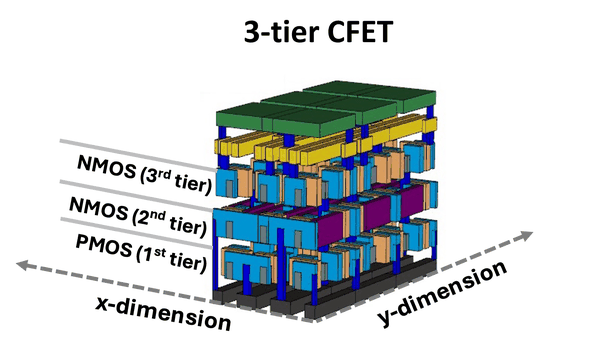
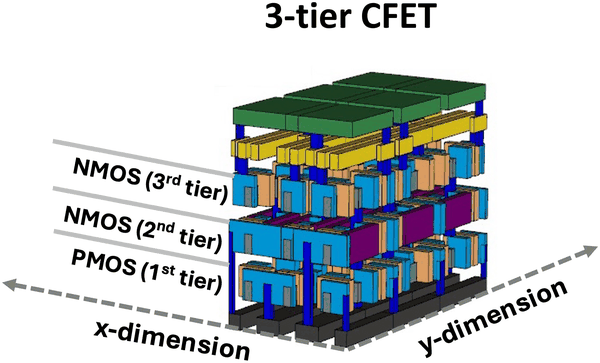
v2: PDK comparison becomes a real HTML table; tighter crops on L3 and F3
The benchmark figure was a 1168px screenshot shown at about 1032px, so
roughly 1x and soft on the small table text. It is now a real table:
sharp at any zoom, selectable, screen-reader navigable with row and
column headers, horizontally scrollable on a phone with the row labels
pinned, and about 2 KB of markup instead of a 24 KB image.

Device and Integration are marked as the rows that carry the argument,
and the MATRIX-A5 column is tinted gold. Ticks and crosses carry
aria-labels rather than relying on the glyph alone.

pub-L3 and pub-F3 are re-rendered with the white margin trimmed: 24% and
13% of their area respectively, so the artwork fills the thumbnail.

diff --git a/v2/index.html b/v2/index.html
@@ -241,9 +241,123 @@
 
     </div>
 
-    <figure class="figure-wide" style="margin-top:26px">
-      <img src="assets/figures/pdk-benchmark.png" width="1168" height="568" loading="lazy"
-           alt="Comparison table of open process design kits. ASAP7 from ASU at 7 nm FinFET, ASAP5 from ASU at 5 nm nanowire FET, FreePDK3 from NCSU at 3 nm gate-all-around nanosheet, GT3 from Georgia Tech at 3 nm, and USC 3N-2D at 3 nm are all 2D integration. MATRIX-A5 from Georgia Tech is A5 node, CFET, 3D stacked device, and is the only entry combining a standard-cell library, multi-threshold-voltage flavors, temperature corners, an RTL-to-GDS flow and backside power delivery">
+    <figure class="figure-wide table-figure">
+      <div class="table-scroll">
+        <table class="pdk-table">
+          <caption class="sr-only">
+            Open process design kits compared by institution, node, device, integration,
+            standard-cell library, multi-threshold-voltage flavors, temperature corners,
+            RTL-to-GDS flow, backside power delivery and availability.
+          </caption>
+          <thead>
+            <tr>
+              <th scope="col"><span class="sr-only">Capability</span></th>
+              <th scope="col">ASAP7</th>
+              <th scope="col">ASAP5</th>
+              <th scope="col">FreePDK3</th>
+              <th scope="col">GT3</th>
+              <th scope="col">USC 3N-2D</th>
+              <th scope="col" class="ours">MATRIX-A5<span class="sub">(this work)</span></th>
+            </tr>
+          </thead>
+          <tbody>
+            <tr>
+              <th scope="row">Institution</th>
+              <td>ASU</td>
+              <td>ASU</td>
+              <td>NCSU</td>
+              <td>Georgia Tech</td>
+              <td>USC (SCCAD)</td>
+              <td class="ours">Georgia Tech</td>
+            </tr>
+            <tr>
+              <th scope="row">Node</th>
+              <td>7 nm</td>
+              <td>5 nm</td>
+              <td>3 nm</td>
+              <td>3 nm</td>
+              <td>3 nm</td>
+              <td class="ours">A5</td>
+            </tr>
+            <tr class="key">
+              <th scope="row">Device</th>
+              <td>FinFET</td>
+              <td>NWFET</td>
+              <td>GAA NS</td>
+              <td>GAA NS</td>
+              <td>GAA NS</td>
+              <td class="ours">CFET</td>
+            </tr>
+            <tr class="key">
+              <th scope="row">Integration</th>
+              <td>2D</td>
+              <td>2D</td>
+              <td>2D</td>
+              <td>2D</td>
+              <td>2D</td>
+              <td class="ours">3D stacked device</td>
+            </tr>
+            <tr>
+              <th scope="row">Standard-cell library</th>
+              <td><span class="mark yes" role="img" aria-label="supported">&#10003;</span></td>
+              <td><span class="mark yes" role="img" aria-label="supported">&#10003;</span></td>
+              <td><span class="mark no" role="img" aria-label="not supported">&#10007;</span></td>
+              <td><span class="mark yes" role="img" aria-label="supported">&#10003;</span></td>
+              <td><span class="mark yes" role="img" aria-label="supported">&#10003;</span></td>
+              <td class="ours"><span class="mark yes" role="img" aria-label="supported">&#10003;</span></td>
+            </tr>
+            <tr>
+              <th scope="row">Multi-V<sub>th</sub> flavors</th>
+              <td><span class="mark yes" role="img" aria-label="supported">&#10003;</span></td>
+              <td><span class="mark no" role="img" aria-label="not supported">&#10007;</span></td>
+              <td><span class="mark no" role="img" aria-label="not supported">&#10007;</span></td>
+              <td><span class="mark no" role="img" aria-label="not supported">&#10007;</span></td>
+              <td><span class="mark no" role="img" aria-label="not supported">&#10007;</span></td>
+              <td class="ours"><span class="mark yes" role="img" aria-label="supported">&#10003;</span></td>
+            </tr>
+            <tr>
+              <th scope="row">Temperature corners</th>
+              <td><span class="mark yes" role="img" aria-label="supported">&#10003;</span></td>
+              <td><span class="mark no" role="img" aria-label="not supported">&#10007;</span></td>
+              <td><span class="mark no" role="img" aria-label="not supported">&#10007;</span></td>
+              <td><span class="mark no" role="img" aria-label="not supported">&#10007;</span></td>
+              <td><span class="mark no" role="img" aria-label="not supported">&#10007;</span></td>
+              <td class="ours"><span class="mark yes" role="img" aria-label="supported">&#10003;</span></td>
+            </tr>
+            <tr>
+              <th scope="row">RTL-to-GDS flow</th>
+              <td><span class="mark yes" role="img" aria-label="supported">&#10003;</span></td>
+              <td><span class="mark yes" role="img" aria-label="supported">&#10003;</span></td>
+              <td><span class="mark yes" role="img" aria-label="supported">&#10003;</span></td>
+              <td><span class="mark yes" role="img" aria-label="supported">&#10003;</span></td>
+              <td><span class="mark yes" role="img" aria-label="supported">&#10003;</span></td>
+              <td class="ours"><span class="mark yes" role="img" aria-label="supported">&#10003;</span></td>
+            </tr>
+            <tr>
+              <th scope="row">Backside power (BSPDN)</th>
+              <td><span class="mark no" role="img" aria-label="not supported">&#10007;</span></td>
+              <td><span class="mark no" role="img" aria-label="not supported">&#10007;</span></td>
+              <td><span class="mark no" role="img" aria-label="not supported">&#10007;</span></td>
+              <td><span class="mark yes" role="img" aria-label="supported">&#10003;</span></td>
+              <td><span class="mark yes" role="img" aria-label="supported">&#10003;</span></td>
+              <td class="ours"><span class="mark yes" role="img" aria-label="supported">&#10003;</span></td>
+            </tr>
+            <tr>
+              <th scope="row">Availability</th>
+              <td>open</td>
+              <td>open</td>
+              <td>open</td>
+              <td>open</td>
+              <td>open</td>
+              <td class="ours">will be open</td>
+            </tr>
+          </tbody>
+        </table>
+      </div>
+      <div class="table-legend">
+        <span><span class="mark yes" aria-hidden="true">&#10003;</span> supported</span>
+        <span><span class="mark no" aria-hidden="true">&#10007;</span> not supported</span>
+      </div>
       <figcaption>
         Where MATRIX-A5 sits among open research PDKs. The others are 2D integration on FinFET,
         nanowire or gate-all-around nanosheet devices; MATRIX-A5 is the only CFET-based, 3D

diff --git a/v2/assets/style.css b/v2/assets/style.css
@@ -466,3 +466,57 @@ section + section { border-top: 1px solid var(--line-soft); }
   border: 1px solid var(--line); border-radius: var(--radius);
   background: var(--surface-alt); box-shadow: var(--shadow-sm);
 }
+
+/* ---------- PDK comparison table ---------- */
+
+.table-figure { margin: 26px 0 0; }
+.table-scroll {
+  overflow-x: auto; border: 1px solid var(--line); border-radius: var(--radius);
+  background: var(--surface); box-shadow: var(--shadow-sm);
+  -webkit-overflow-scrolling: touch;
+}
+.pdk-table { border-collapse: collapse; width: 100%; min-width: 760px; font-size: .84rem; }
+
+.pdk-table thead th {
+  background: var(--navy); color: #fff; font-family: var(--sans); font-weight: 650;
+  text-align: center; padding: 11px 12px; white-space: nowrap; font-size: .86rem;
+  border-bottom: 2px solid var(--gold);
+}
+.pdk-table thead th:first-child { background: var(--navy); text-align: left; }
+.pdk-table thead th .sub { display: block; font-weight: 500; font-size: .68rem; opacity: .85; }
+
+.pdk-table th[scope="row"] {
+  text-align: left; font-weight: 500; color: var(--copy); padding: 9px 14px;
+  white-space: nowrap; position: sticky; left: 0; background: var(--surface);
+  border-right: 1px solid var(--line);
+}
+.pdk-table td { text-align: center; padding: 9px 12px; color: var(--muted); }
+.pdk-table tbody tr { border-top: 1px solid var(--line-soft); }
+.pdk-table tbody tr:nth-child(odd) th[scope="row"],
+.pdk-table tbody tr:nth-child(odd) td { background: var(--surface-alt); }
+
+/* the two rows that carry the argument */
+.pdk-table tr.key th[scope="row"] { font-weight: 650; color: var(--ink); box-shadow: inset 3px 0 0 var(--gold); }
+.pdk-table tr.key td { color: var(--ink); font-weight: 550; }
+
+/* the column for this work */
+.pdk-table .ours { background: color-mix(in srgb, var(--gold) 16%, transparent) !important; font-weight: 600; color: var(--ink); }
+.pdk-table thead .ours { background: var(--navy) !important; color: var(--gold); box-shadow: inset 0 0 0 1px var(--gold); }
+
+.mark {
+  display: inline-grid; place-items: center; width: 19px; height: 19px; border-radius: 50%;
+  font-size: .7rem; line-height: 1; font-weight: 700;
+}
+.mark.yes { background: color-mix(in srgb, var(--gold) 28%, transparent); color: var(--ink); border: 1px solid var(--gold); }
+.mark.no  { background: var(--line-soft); color: var(--faint); border: 1px solid var(--line); }
+
+.table-legend {
+  display: flex; flex-wrap: wrap; gap: 8px 20px; align-items: center;
+  margin-top: 10px; font-size: .78rem; color: var(--faint);
+}
+.table-legend span { display: inline-flex; align-items: center; gap: 7px; }
+
+.sr-only {
+  position: absolute; width: 1px; height: 1px; padding: 0; margin: -1px;
+  overflow: hidden; clip: rect(0 0 0 0); white-space: nowrap; border: 0;
+}

diff --git a/v2/publications.html b/v2/publications.html
@@ -107,7 +107,7 @@
 
     <div class="pub-entry" id="L3">
       <div class="pub-thumb">
-        <img src="assets/figures/pub-L3.png" width="600" height="360" loading="lazy"
+        <img src="assets/figures/pub-L3.png" width="600" height="363" loading="lazy"
              alt="Three-dimensional render of a 3-tier CFET SRAM cell, with PMOS on the first tier and NMOS on the second and third tiers, annotated along the x and y dimensions">
       </div>
       <div>
@@ -218,7 +218,7 @@
 
     <div class="pub-entry" id="F3">
       <div class="pub-thumb">
-        <img src="assets/figures/pub-F3.jpg" width="592" height="373" loading="lazy"
+        <img src="assets/figures/pub-F3.jpg" width="545" height="353" loading="lazy"
              alt="Three-dimensional ferroelectric vertical NAND array with bit lines and word lines, and a detail of the FeFET cell within the vertical string">
       </div>
       <div>
